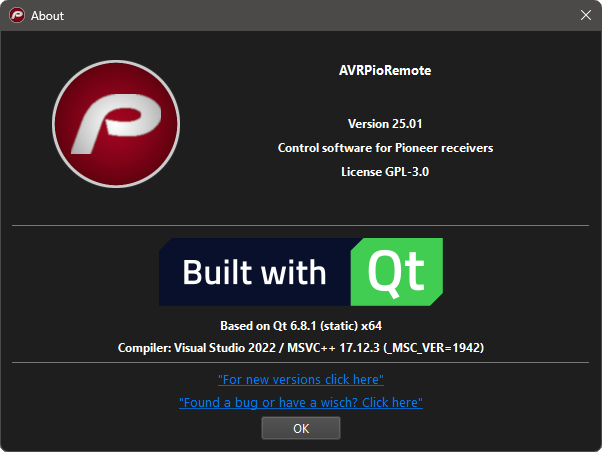
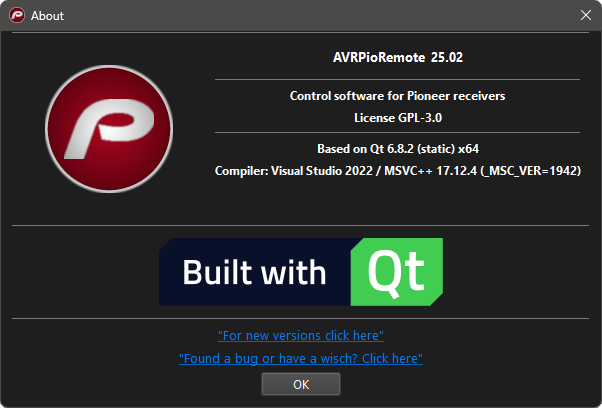
Change about section

diff --git a/src/aboutdialog.cpp b/src/aboutdialog.cpp
@@ -106,7 +106,7 @@ AboutDialog::AboutDialog(QWidget *parent) :
     first.setDate(date.date().year(),date.date().month(),1);
     int week = date.date().weekNumber() -
             (first.weekNumber() > date.date().weekNumber() ? 0 : first.weekNumber());
-    ui->label_3->setText(QString("Version ").append(
+    ui->label_3->setText(QString().append(
 #ifdef __FORCED_APP_VER
         QString(__FORCED_APP_VER)
 #else

diff --git a/src/bluraydialog.cpp b/src/bluraydialog.cpp
@@ -20,7 +20,7 @@
 #include "ui_bluraydialog.h"
 #include <QDebug>
 #include <QSignalMapper>
-#include <QtConcurrent/QtConcurrent>
+//#include <QtConcurrent>
 #include <QDateTime>
 #include <QThread>
 #include <QTimer>
